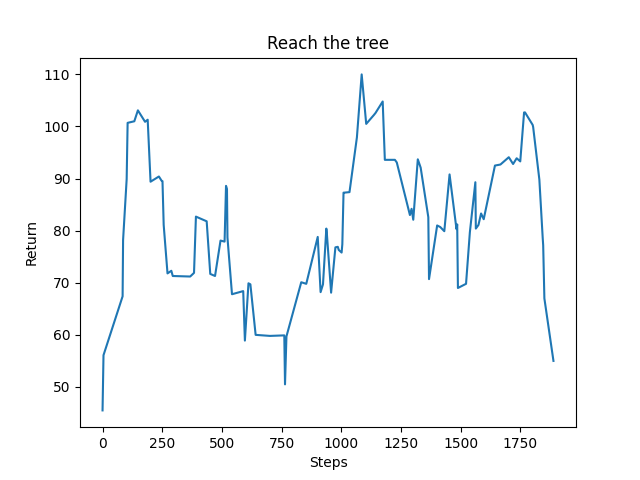
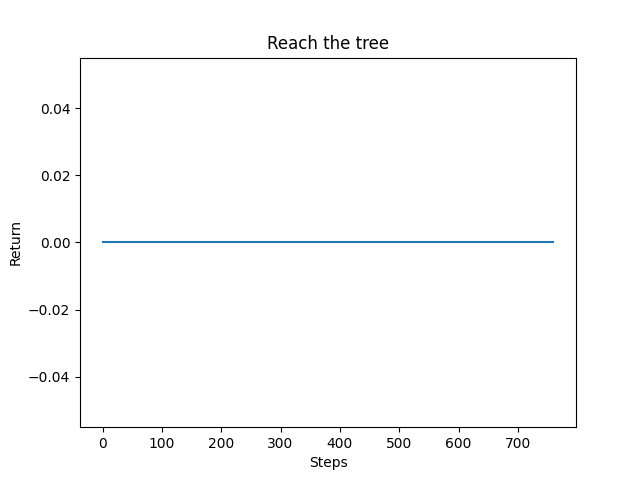
setup pig env, tested ddpg model

diff --git a/LumberjackMain.py b/LumberjackMain.py
@@ -21,6 +21,7 @@ import gym, ray
 from gym.spaces import Box, Discrete
 from ray.rllib.agents import ppo
 from ray.rllib.models import ModelCatalog
+from ray.rllib.agents.ddpg.ddpg import DDPGTrainer
 #-----------------------
 
 from LumberjackEnvironment import getXML
@@ -60,13 +61,13 @@ class Lumberjack(gym.Env):
         self.max_episode_steps = MAX_EPISODE_STEPS
         self.log_frequency = 10
         self.action_dict = {
-            #0: 'move',  # Move forward
-            0: 'turn', 
+            0: 'move',  # Move forward
+            1: 'turn', 
         }
 
         # Rllib Parameters
-        self.num_outputs = 1
-        self.action_space = Box(0.0 , 2.00, shape=[1], dtype=np.float32)
+        self.num_outputs = 2
+        self.action_space = Box(0.0 , 2.00, shape=[2], dtype=np.float32)
         self.observation_space = Box(-1.00, 1, shape=(84, 84, 3), dtype=np.float32)
 
         # Malmo Parameters
@@ -120,12 +121,12 @@ class Lumberjack(gym.Env):
             info: <dict> dictionary of extra information
         """
         # Get Action
-        # print(action)
+        print(action)
         if np.nan in action:
             print("NAN error again")
-        self.agent_host.sendCommand(f"move 0.5")
+        #self.agent_host.sendCommand(f"move 0.5")
         for i, j in self.action_dict.items():
-            self.agent_host.sendCommand(f"{j} {(action[i] - 1) / 2:30.1f}")
+            self.agent_host.sendCommand(f"{j} {(action[i] - 1) / 4:30.1f}")
         #self.agent_host.sendCommand(f"move {action}")
         time.sleep(.2)
         self.episode_step += 1
@@ -140,20 +141,22 @@ class Lumberjack(gym.Env):
 
         # Get Observation
         reward = 0
-        if world_state.number_of_rewards_since_last_state > 0:
-            delta = world_state.rewards[0].getValue()
-            if delta != 0:
-                reward += delta
+        for r in world_state.rewards:
+            reward += r.getValue()
 
         self.episode_return += reward
         for error in world_state.errors:
             print("Error:", error.text)
         for o in world_state.observations:
+            # https://github.com/microsoft/malmo/blob/master/Malmo/samples/Python_examples/hit_test.py
             msg = o.text
-            observations = json.loads(msg)                
-            reward += -1 * min([observations['distanceFromTree' + str(i)] for i in range(N_TREES)])
+            observations = json.loads(msg)
+            if u'LineOfSight' in observations:
+                los = observations[u'LineOfSight']
+                if los["type"] == "Pig":
+                    self.agent_host.sendCommand("attack 1")
+                    self.agent_host.sendCommand("attack 0")
         self.obs, log_pixels = self.get_observation(world_state) 
-        reward += log_pixels/10000
 
         # Get Reward
 
@@ -196,10 +199,7 @@ class Lumberjack(gym.Env):
 
     def get_observation(self, world_state):
         obs = np.zeros((84, 84, 3))
-
-        while world_state.is_mission_running:
-            time.sleep(0.1)
-            world_state = self.agent_host.getWorldState()
+        if world_state.is_mission_running:
             if len(world_state.errors) > 0:
                 raise AssertionError('Could not load grid.')
             if len(world_state.video_frames):
@@ -275,68 +275,82 @@ def on_postprocess_traj(info):
 if __name__ == '__main__':
     ray.init()
     ModelCatalog.register_custom_model("my_model", VisionNetwork)
-    trainer = ppo.PPOTrainer(env=Lumberjack, config={
+    # trainer = ppo.PPOTrainer(env=Lumberjack, config={
+    #     'env_config': {},           # No environment parameters to configure
+    #     'framework': 'torch',       # Use pyotrch instead of tensorflow
+    #     'num_gpus': 0,              # We aren't using GPUs
+    #     'num_workers': 2,            # We aren't using parallelism
+    #     # Whether to write episode stats and videos to the agent log dir. This is
+    #     # typically located in ~/ray_results.
+    #     # "monitor": True,
+    #     # Set the ray.rllib.* log level for the agent process and its workers.
+    #     # Should be one of DEBUG, INFO, WARN, or ERROR. The DEBUG level will also
+    #     # periodically print out summaries of relevant internal dataflow (this is
+    #     # also printed out once at startup at the INFO level). When using the
+    #     # `rllib train` command, you can also use the `-v` and `-vv` flags as
+    #     # shorthand for INFO and DEBUG.
+    #     "log_level": "DEBUG",
+
+    #     # For example, given rollout_fragment_length=100 and train_batch_size=1000:
+    #     #   1. RLlib collects 10 fragments of 100 steps each from rollout workers.
+    #     #   2. These fragments are concatenated and we perform an epoch of SGD.
+    #     "rollout_fragment_length": 400,
+    #     # Training batch size, if applicable. Should be >= rollout_fragment_length.
+    #     # Samples batches will be concatenated together to a batch of this size,
+    #     # which is then passed to SGD.
+    #     "train_batch_size": 3200,
+    #     "gamma": 0.99,
+    #     # Whether to clip rewards during Policy's postprocessing.
+    #     # None (default): Clip for Atari only (r=sign(r)).
+    #     # True: r=sign(r): Fixed rewards -1.0, 1.0, or 0.0.
+    #     # False: Never clip.
+    #     # [float value]: Clip at -value and + value.
+    #     # Tuple[value1, value2]: Clip at value1 and value2.
+    #     # "clip_rewards": None,
+    #     # Whether to clip actions to the action space's low/high range spec.
+    #     # "clip_actions": True,
+    #     # # Whether to use "rllib" or "deepmind" preprocessors by default
+    #     # "explore": True,
+    #     # # Provide a dict specifying the Exploration object's config.
+    #     # "exploration_config": {
+    #     #     # The Exploration class to use. In the simplest case, this is the name
+    #     #     # (str) of any class present in the `rllib.utils.exploration` package.
+    #     #     # You can also provide the python class directly or the full location
+    #     #     # of your class (e.g. "ray.rllib.utils.exploration.epsilon_greedy.
+    #     #     # EpsilonGreedy").
+    #     #     "type": "StochasticSampling",
+    #     #     # Add constructor kwargs here (if any).
+    #     # },
+    #     "preprocessor_pref": "deepmind",
+    #     # The default learning rate.
+    #     "lr": 0.0001,
+    #     # "callbacks": {#"on_episode_start": on_episode_start, 
+    #     #                             #"on_episode_step": on_episode_step, 
+    #     #                             #"on_episode_end": on_episode_end, 
+    #     #                             #"on_sample_end": on_sample_end,
+    #     #                             "on_postprocess_traj": on_postprocess_traj,
+    #     #                             #"on_train_result": on_train_result,
+    #     #                             },
+    #     "model": {
+    #         "custom_model": "my_model",
+    #         "dim": 84, 
+    #         "conv_filters": [[16, [4, 4], 2], [32, [4, 4], 1], [64, [5, 5], 1], [32, [42, 42], 1]],
+    #         "no_final_linear": True,
+    #     }
+    # })
+
+    trainer = DDPGTrainer(env=Lumberjack, config={
         'env_config': {},           # No environment parameters to configure
         'framework': 'torch',       # Use pyotrch instead of tensorflow
         'num_gpus': 0,              # We aren't using GPUs
         'num_workers': 2,            # We aren't using parallelism
-        # Whether to write episode stats and videos to the agent log dir. This is
-        # typically located in ~/ray_results.
-        # "monitor": True,
-        # Set the ray.rllib.* log level for the agent process and its workers.
-        # Should be one of DEBUG, INFO, WARN, or ERROR. The DEBUG level will also
-        # periodically print out summaries of relevant internal dataflow (this is
-        # also printed out once at startup at the INFO level). When using the
-        # `rllib train` command, you can also use the `-v` and `-vv` flags as
-        # shorthand for INFO and DEBUG.
-        "log_level": "DEBUG",
-
-        # For example, given rollout_fragment_length=100 and train_batch_size=1000:
-        #   1. RLlib collects 10 fragments of 100 steps each from rollout workers.
-        #   2. These fragments are concatenated and we perform an epoch of SGD.
-        "rollout_fragment_length": 100,
-        # Training batch size, if applicable. Should be >= rollout_fragment_length.
-        # Samples batches will be concatenated together to a batch of this size,
-        # which is then passed to SGD.
-        "train_batch_size": 2000,
-        "gamma": 0.99,
-        # Whether to clip rewards during Policy's postprocessing.
-        # None (default): Clip for Atari only (r=sign(r)).
-        # True: r=sign(r): Fixed rewards -1.0, 1.0, or 0.0.
-        # False: Never clip.
-        # [float value]: Clip at -value and + value.
-        # Tuple[value1, value2]: Clip at value1 and value2.
-        # "clip_rewards": None,
-        # Whether to clip actions to the action space's low/high range spec.
-        # "clip_actions": True,
-        # # Whether to use "rllib" or "deepmind" preprocessors by default
-        # "explore": True,
-        # # Provide a dict specifying the Exploration object's config.
-        # "exploration_config": {
-        #     # The Exploration class to use. In the simplest case, this is the name
-        #     # (str) of any class present in the `rllib.utils.exploration` package.
-        #     # You can also provide the python class directly or the full location
-        #     # of your class (e.g. "ray.rllib.utils.exploration.epsilon_greedy.
-        #     # EpsilonGreedy").
-        #     "type": "StochasticSampling",
-        #     # Add constructor kwargs here (if any).
-        # },
-        "preprocessor_pref": "deepmind",
-        # The default learning rate.
-        "lr": 0.0001,
-        # "callbacks": {#"on_episode_start": on_episode_start, 
-        #                             #"on_episode_step": on_episode_step, 
-        #                             #"on_episode_end": on_episode_end, 
-        #                             #"on_sample_end": on_sample_end,
-        #                             "on_postprocess_traj": on_postprocess_traj,
-        #                             #"on_train_result": on_train_result,
-        #                             },
-        "model": {
-            "custom_model": "my_model",
-            "dim": 84, 
-            "conv_filters": [[16, [4, 4], 2], [32, [4, 4], 1], [64, [5, 5], 1], [32, [42, 42], 1]],
-            "no_final_linear": True,
-        }
+        "explore": True,
+        # "model": {
+        #     "custom_model": "my_model",
+        #     "dim": 84, 
+        #     "conv_filters": [[16, [4, 4], 2], [32, [4, 4], 1], [64, [5, 5], 1], [32, [42, 42], 1]],
+        #     "no_final_linear": True,
+        # }
     })
 
     for i in range(1000):

diff --git a/LumberjackEnvironment.py b/LumberjackEnvironment.py
@@ -54,9 +54,8 @@ def getXML(MAX_EPISODE_STEPS, SIZE = 5, N_TREES = 10):
                             "<DrawCuboid x1='{}' x2='{}' y1='-3' y2='1' z1='{}' z2='{}' type='grass'/>".format(-SIZE, SIZE, -SIZE, SIZE) + \
                             "<DrawCuboid x1='{}' x2='{}' y1='2' y2='3' z1='{}' z2='{}' type='lapis_block'/>".format(-SIZE-1, SIZE+1, -SIZE-1, SIZE+1) + \
                             "<DrawCuboid x1='{}' x2='{}' y1='2' y2='3' z1='{}' z2='{}' type='air'/>".format(-SIZE, SIZE, -SIZE, SIZE) + \
-                            drawTree(treePos) + \
                             '''
-                            <DrawEntity x="4.5" y="4" z="3.5" type="Pig"/>
+                            <DrawEntity x="0.5" y="2" z="0.5" type="Pig"/>
                         </DrawingDecorator>
                         <ServerQuitWhenAnyAgentFinishes/>
                     </ServerHandlers>
@@ -64,39 +63,30 @@ def getXML(MAX_EPISODE_STEPS, SIZE = 5, N_TREES = 10):
                 <AgentSection mode="Survival">
                     <Name>MAI Lumberjack</Name>
                     <AgentStart>''' + \
-                        '<Placement x="{}" y="2" z="{}" pitch="0" yaw="0"/>'.format(startX, startZ) + \
+                        '<Placement x="{}" y="2" z="{}" pitch="30" yaw="45"/>'.format(startX, startZ) + \
                         '''
-                        <Inventory>
-                            <InventoryItem slot="0" type="diamond_axe"/>
-                        </Inventory>
                     </AgentStart>
                     <AgentHandlers>
-                        <RewardForTouchingBlockType>
-                            <Block type="grass" reward="1" behaviour="oncePerBlock"/>
-                        </RewardForTouchingBlockType>
                         <ContinuousMovementCommands>
                             <ModifierList type="allow-list">
                                 <command>move</command>
                                 <command>turn</command>
+                                <command>attack</command>
                             </ModifierList>
                         </ContinuousMovementCommands>
+                        <ObservationFromRay/>
                         <ObservationFromFullStats/>
                         <ColourMapProducer>
                             <Width>84</Width>
                             <Height>84</Height>
                         </ColourMapProducer>
-                        <AgentQuitFromTouchingBlockType>
-                            <Block type="log" description="found_goal" />
-                        </AgentQuitFromTouchingBlockType>
+                        <RewardForDamagingEntity>
+                            <Mob type="Pig" reward="1000"/>
+                        </RewardForDamagingEntity>
                         <RewardForMissionEnd rewardForDeath="-1">
-                            <Reward description="found_goal" reward="100" />
                             <Reward description="out_of_time" reward="00" />
                         </RewardForMissionEnd>
                         <AgentQuitFromTimeUp timeLimitMs="30000" description="out_of_time"/>
-                        <ObservationFromDistance>''' + \
-                            ''.join(createMarker(index, coord) for index, coord in enumerate(trees)) + \
-                            '''
-                        </ObservationFromDistance>
                     </AgentHandlers>
                 </AgentSection>
             </Mission>'''

diff --git a/a2rllib.py b/a2rllib.py
@@ -154,7 +154,7 @@ class DiamondCollector(gym.Env):
                     <AgentSection mode="Survival">
                         <Name>CS175DiamondCollector</Name>
                         <AgentStart>
-                            <Placement x="0.5" y="2" z="0.5" pitch="45" yaw="0"/>
+                            <Placement x="0.5" y="2" z="0.5" pitch="85" yaw="65"/>
                             <Inventory>
                                 <InventoryItem slot="0" type="diamond_pickaxe"/>
                             </Inventory>
